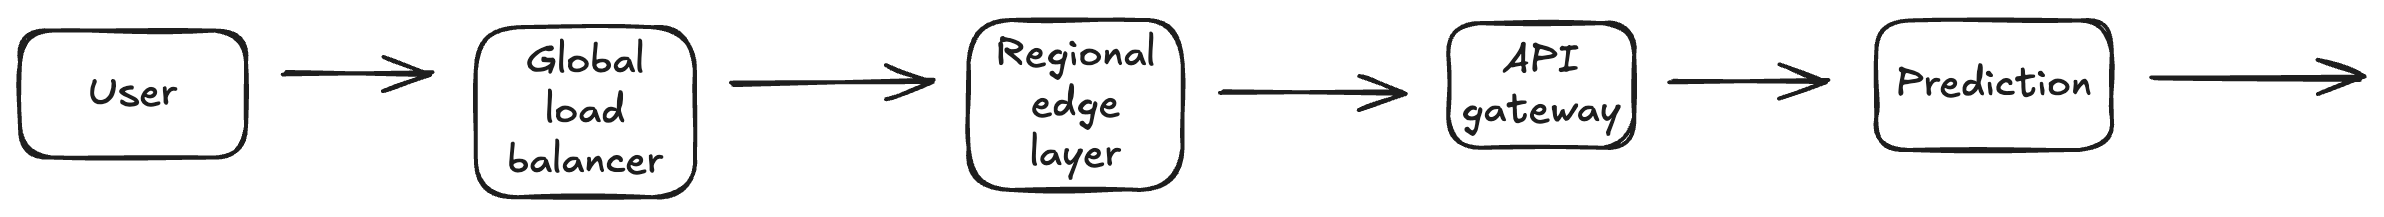
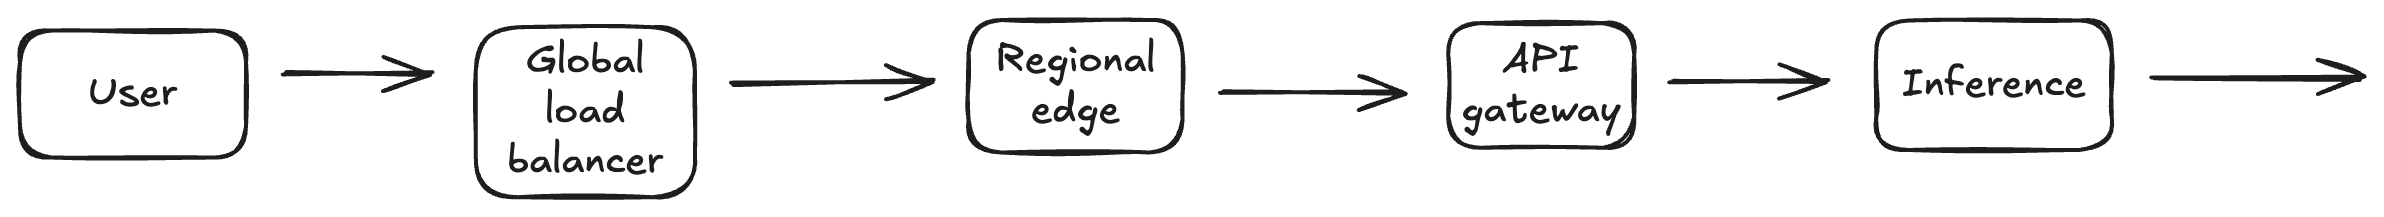
Update machine learning system design guides

diff --git a/machine-learning-system-design/2-model-serving.html b/machine-learning-system-design/2-model-serving.html
@@ -64,37 +64,37 @@ What should be latency for real-time inference? Under 200ms
 Are models continuously trained? Yes
 How many daily active users are there? 1B
 How many inference requests does each user make? depends on use case
-Should the system monitor model metrics? No
-Should the system perform model deployment like A/B testing? No
+Should the system monitor model metrics? Yes
+Should the system perform model deployment like A/B testing? Yes
 
 ML problem
   Input - requests with static and dynamic features
   Output - prediction
   Platform that serves huge number of API requests, compute/generate huge size of batch predictions
-  Key points - latency under 200ms, throughtput 100M QPS
-
+  
 # High-Level Design
 
-User -> Global load balancer -> Regional edge layer -> API gatwway -> Prediction
-Single region or Kubernetes autoscaling cannot support 100M QPS
+User -> Global load balancer -> Regional edge -> API gatwway -> Inference ->
 
 # Detailed Design
 
-Multi-region deployment
-  Deploy models into US East, US West, etc
-  Avoid cross-regional latency and single point of failure
+Deployment
+  Deploy models into different regions such as US East, US West, etc
+  This avoids cross-regional latency and single point of failure
 
-Multi-stage model inference
-  Cache layer - serve frequent prediction, use Redis
-  Candidate generation - leverage pre-computed embeddings, use ANN, focus on recall
-  Model - dynamic batching (micro-batching per 5-10ms), focus on precision 
+Inference
+  Cache - serve frequent prediction (For example, use Redis)
+  Feature store - stores batch features and its embeddings
+  Candidate generation - leverage embeddings from features store, use ANN to generate candidates offline
+  Model - use dynamic batching (For example, micro-batching per 5-10ms) to increase throughput
 
-Model optimization
+Performance
   Quantization
   Knowledge distillation (only if teacher model is available)
 
-Auto-scaling
-  Traffic forecast
+Scalability
+  Scale based on usage (For example, kubernetes)
+  Scale based on traffic forecast
 </code></pre> 
 
     <img class="img-fluid" class="card-img-top" src="/machine-learning-system-design/image/mlsd-2/model-serving-1.png" alt="Card image cap">
